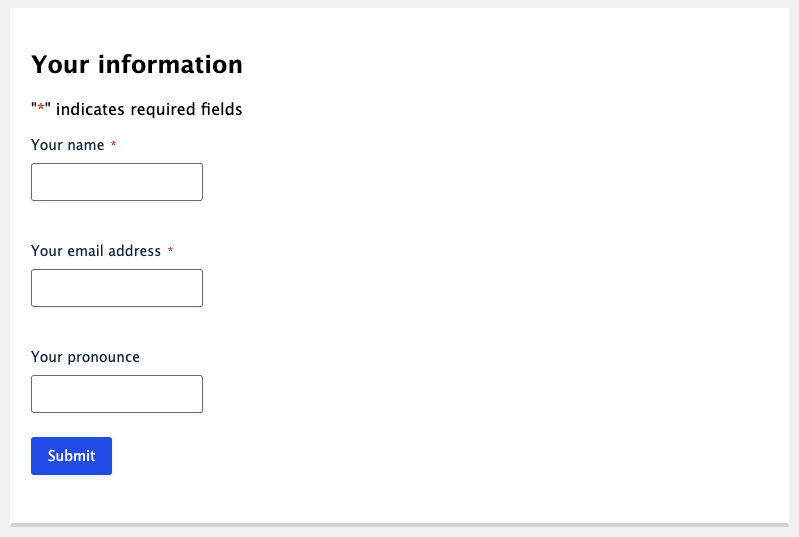
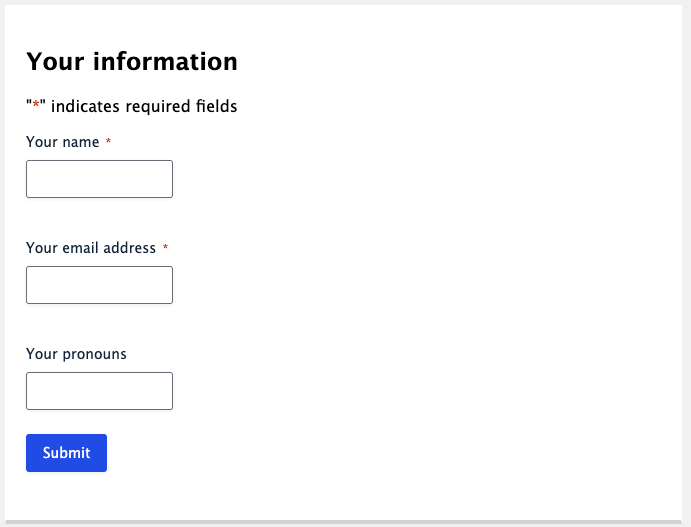
Deploying to gh-pages from @ wpaccessibility/wp-a11y-docs@ea74ce748bb4422d2e3ee2a7712eea91e53600cc 🚀

diff --git a/pr-preview/pr-210/docs/topics/forms/required/required-screen-readers/index.html b/pr-preview/pr-210/docs/topics/forms/required/required-screen-readers/index.html
@@ -452,7 +452,7 @@
 
           <h1 id="mark-a-required-form-field-for-screen-readers">Mark a required form field for screen readers</h1>
 
-<p>Screen reader users will have announced if a field is required by the HTML attributes <code class="language-plaintext highlighter-rouge">aria-required</code> or <code class="language-plaintext highlighter-rouge">required</code> with the form field.</p>
+<p>Screen reader users will have the field announced as required by the HTML attributes <code class="language-plaintext highlighter-rouge">aria-required</code> or <code class="language-plaintext highlighter-rouge">required</code> on the form field.</p>
 
 <h2 id="basic-html-examples">Basic HTML examples</h2>
 
@@ -471,7 +471,6 @@
   <span class="na">aria-required=</span><span class="s">"true"</span>
   <span class="na">aria-invalid=</span><span class="s">"false"</span>
 <span class="nt">/&gt;</span>
-
 </code></pre></div></div>
 
 <h3 id="using-required">Using required</h3>
@@ -488,14 +487,13 @@
   <span class="na">required</span>
   <span class="na">aria-invalid=</span><span class="s">"false"</span>
 <span class="nt">/&gt;</span>
-
 </code></pre></div></div>
 
 <p>The disadvantage of using <code class="language-plaintext highlighter-rouge">required</code> is, that it triggers the <a href="https://developer.mozilla.org/en-US/docs/Learn_web_development/Extensions/Forms/Form_validation">client-side form validation</a> of the browser.</p>
 
-<p>This validation is, at the moment of writing, do not meet WCAG accessibility guidelines. The text of the error messages are not specific enough, they disappear after a few seconds, and they have poor screen reader support at the moment.</p>
+<p>At the time of writing, this validation does not meet WCAG accessibility guidelines. The error messages are not specific enough, they disappear after a few seconds, and they currently lack sufficient screen reader support.</p>
 
-<p>If you decide to use required, also use <code class="language-plaintext highlighter-rouge">novalidate</code> on the form element, to prevent the form validation of the browser kicking in and enables you to handle the validation server side.</p>
+<p>If you decide to use <code class="language-plaintext highlighter-rouge">required</code>, also use <code class="language-plaintext highlighter-rouge">novalidate</code> on the form element to prevent the browser’s form validation from kicking in and enable you to handle validation server-side.</p>
 
 <div class="language-html highlighter-rouge"><div class="highlight"><pre class="highlight"><code><span class="nt">&lt;form</span> <span class="na">action=</span><span class="s">"some-url"</span> <span class="na">novalidate</span><span class="nt">&gt;</span>
 </code></pre></div></div>
@@ -504,7 +502,7 @@
 
 <h2 id="wcag-success-criteria">WCAG Success Criteria</h2>
 
-<p>By indication required fields, you meet WCAG success criterion <a href="https://www.w3.org/WAI/WCAG22/quickref/#labels-or-instructions">3.3.2 Labels or Instructions (Level A)</a>.</p>
+<p>By indicating required fields, you meet WCAG success criterion <a href="https://www.w3.org/WAI/WCAG22/quickref/#labels-or-instructions">3.3.2 Labels or Instructions (Level A)</a>.</p>
 
 <h2 id="resources">Resources</h2>
 <ul>
@@ -513,7 +511,6 @@
   <li>W3C <a href="https://www.w3.org/WAI/tutorials/forms/validation/">Validating Input</a>.</li>
   <li>NL Design System <a href="https://nldesignsystem.nl/richtlijnen/formulieren/">Guidelines for web forms (Dutch content)</a>.</li>
 </ul>
-
 
 
           

diff --git a/pr-preview/pr-210/docs/topics/forms/required/mark-non-required-fields/index.html b/pr-preview/pr-210/docs/topics/forms/required/mark-non-required-fields/index.html
@@ -450,19 +450,19 @@
 
         <main>
 
-          <h1 id="option-1-marking-only-the-non-required-form-fields">Option 1: Marking only the non-required form fields</h1>
+          <h1 id="option-2-marking-only-the-non-required-form-fields">Option 2: Marking only the non-required form fields</h1>
 
-<p>Clearly indicate to the user if a form field is required to fill out or not.</p>
+<p>Clearly indicate to the user if a form field is optional.</p>
 
-<p>Assume that you only request essential information in forms, most fields will be required. Then, non-required fields are the exception. You can choose to visually mark only the optional fields. Do this by informing the user above the field and by including the text ‘(optional)’ in the label for non-required fields.</p>
+<p>Assuming that you only request essential information in forms, most fields will be required. Then, non-required fields are the exception. You can choose to mark only the optional fields visually. Do this by informing the user above the field and by including the text ‘(optional)’ in the label for non-required fields.</p>
 
 <h2 id="example">Example</h2>
 
 <figure>
-<img src="/pr-preview/pr-210/assets/images/mark-non-required-form-fields.png" alt="" />
+<img src="/pr-preview/pr-210/assets/images/mark-non-required-form-fields.png" alt="Screenshot form indicating non-required fields" />
     <figcaption>
     In this screenshot: Above the form the text: "All questions are required except the questions marked as (optional)".
-    This information also in the label text: Pronounce (optional).
+    This information is also in the label text: Your Pronouns (optional).
     </figcaption>
 </figure>
 
@@ -475,12 +475,12 @@ Please <a href="/pr-preview/pr-210/docs/contact/">contact us</a> if you want to 
 
 <h2 id="related-wcag-success-criteria">Related WCAG Success Criteria</h2>
 
-<p>By indication required fields, you meet WCAG success criterion <a href="https://www.w3.org/WAI/WCAG22/quickref/#labels-or-instructions">3.3.2 Labels or Instructions (Level A)</a>.</p>
+<p>By indicating required fields, you meet WCAG success criterion <a href="https://www.w3.org/WAI/WCAG22/quickref/#labels-or-instructions">3.3.2 Labels or Instructions (Level A)</a>.</p>
 
 <h2 id="related-pages-in-this-documentation">Related pages in this documentation</h2>
 
 <ul>
-  <li><a href="/pr-preview/pr-210/docs/topics/forms/required/mark-required-fields/">Option 2: Marking only the required form fields</a>.</li>
+  <li><a href="/pr-preview/pr-210/docs/topics/forms/required/mark-required-fields/">Option 1: Marking only the required form fields</a>.</li>
 </ul>
 
 <h2 id="resources">Resources</h2>
@@ -489,7 +489,6 @@ Please <a href="/pr-preview/pr-210/docs/contact/">contact us</a> if you want to 
   <li>NL Design System <a href="https://nldesignsystem.nl/richtlijnen/formulieren/">Guidelines for web forms (Dutch content)</a>.</li>
   <li>Faizan Ahmed on UX Design World <a href="https://uxdworld.com/form-design-required-and-optional-fields/">Optimizing Form Design: Marking Required and Optional Fields in a Better Way</a></li>
 </ul>
-
 
 
           

diff --git a/pr-preview/pr-210/docs/topics/forms/required/mark-required-fields/index.html b/pr-preview/pr-210/docs/topics/forms/required/mark-required-fields/index.html
@@ -450,7 +450,7 @@
 
         <main>
 
-          <h1 id="option-2-marking-only-the-required-form-fields">Option 2: Marking only the required form fields</h1>
+          <h1 id="option-1-marking-only-the-required-form-fields">Option 1: Marking only the required form fields</h1>
 
 <p>Clearly indicate to the user if a form field is required to fill out or not. Inform the user above the field how the fields are marked.</p>
 
@@ -465,10 +465,10 @@
 <h2 id="example">Example</h2>
 
 <figure>
-    <img src="/pr-preview/pr-210/assets/images/mark-required-form-fields.png" alt="" />
+    <img src="/pr-preview/pr-210/assets/images/mark-required-form-fields.png" alt="Screenshot form indicating required fields" />
     <figcaption>
     In this screenshot: Above the form the text: "*" indicates required fields.
-    This information also in the label text: Your name *.
+    This information is also in the label text: Your name *.
     </figcaption>
 </figure>
 
@@ -487,12 +487,12 @@ Please <a href="/pr-preview/pr-210/docs/contact/">contact us</a> if you want to 
 
 <h2 id="related-wcag-success-criteria">Related WCAG Success Criteria</h2>
 
-<p>By indication required fields, you meet WCAG success criterion <a href="https://www.w3.org/WAI/WCAG22/quickref/#labels-or-instructions">3.3.2 Labels or Instructions (Level A)</a>.</p>
+<p>By indicating required fields, you meet WCAG success criterion <a href="https://www.w3.org/WAI/WCAG22/quickref/#labels-or-instructions">3.3.2 Labels or Instructions (Level A)</a>.</p>
 
 <h2 id="related-pages-in-this-documentation">Related pages in this documentation</h2>
 
 <ul>
-  <li><a href="/pr-preview/pr-210/docs/topics/forms/required/mark-non-required-fields/">Option 1: Marking only the non-required form fields</a>.</li>
+  <li><a href="/pr-preview/pr-210/docs/topics/forms/required/mark-non-required-fields/">Option 2: Marking only the non-required form fields</a>.</li>
 </ul>
 
 <h2 id="resources">Resources</h2>

diff --git a/pr-preview/pr-210/docs/topics/forms/required/index.html b/pr-preview/pr-210/docs/topics/forms/required/index.html
@@ -448,11 +448,11 @@ Then the user knows which information they must provide to submit a form.</p>
 <p>You have two options:</p>
 
 <ol>
-  <li>By visually marking non-required fields.</li>
   <li>By visually marking required fields.</li>
+  <li>By visually marking non-required fields.</li>
 </ol>
 
-<p>Both are fine, as long as you are consistent within the form and if possible also withing all forms on your website.</p>
+<p>Both are fine, as long as you are consistent within the form and, if possible, also within all forms on your website.</p>
 
 <p>Always place the explanation of how you indicate this above the form, so the user knows beforehand what to expect when completing it.</p>
 
